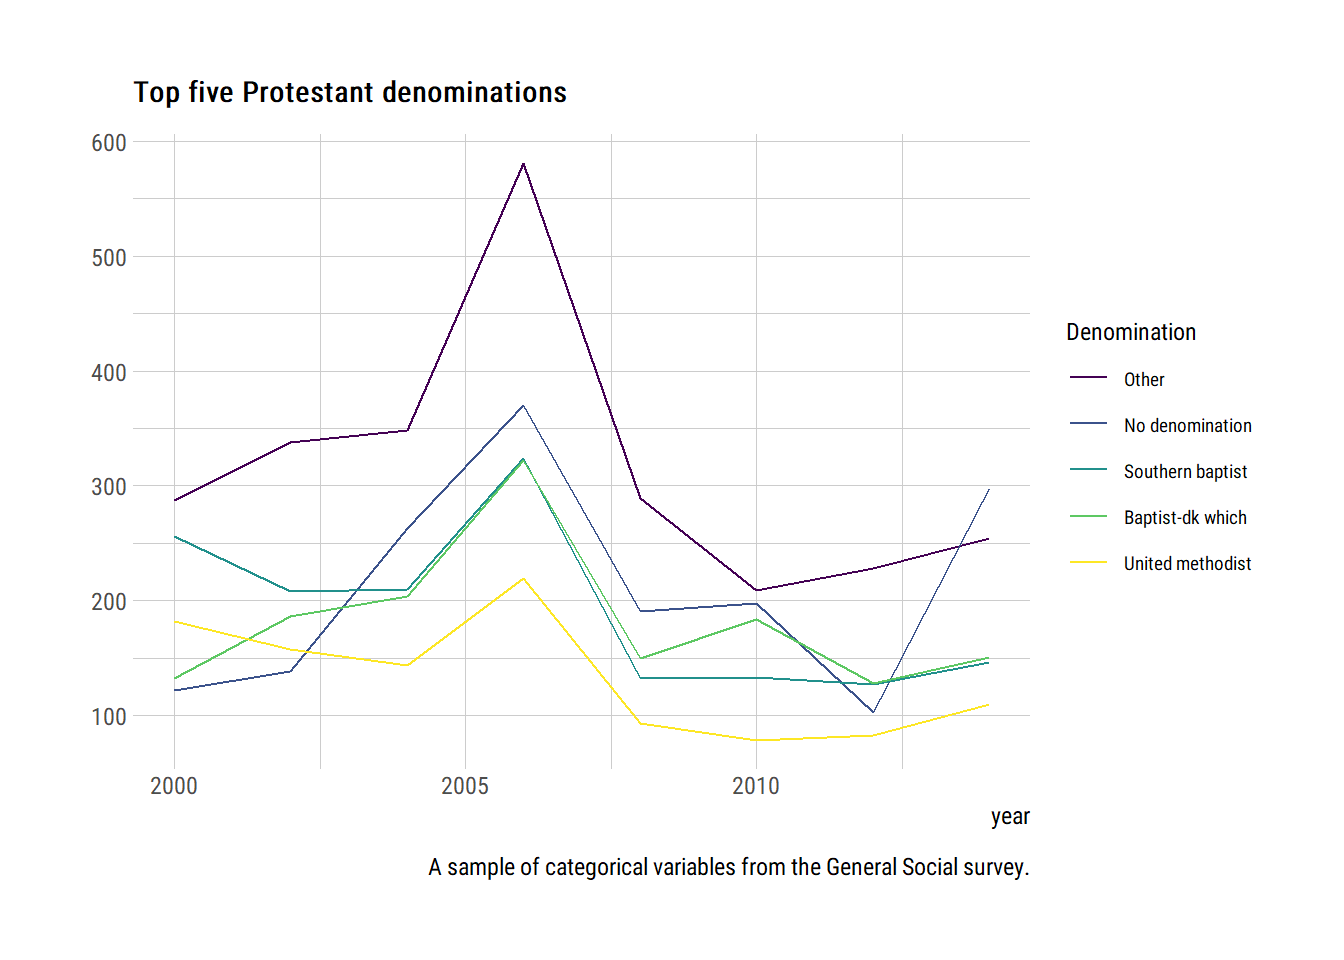
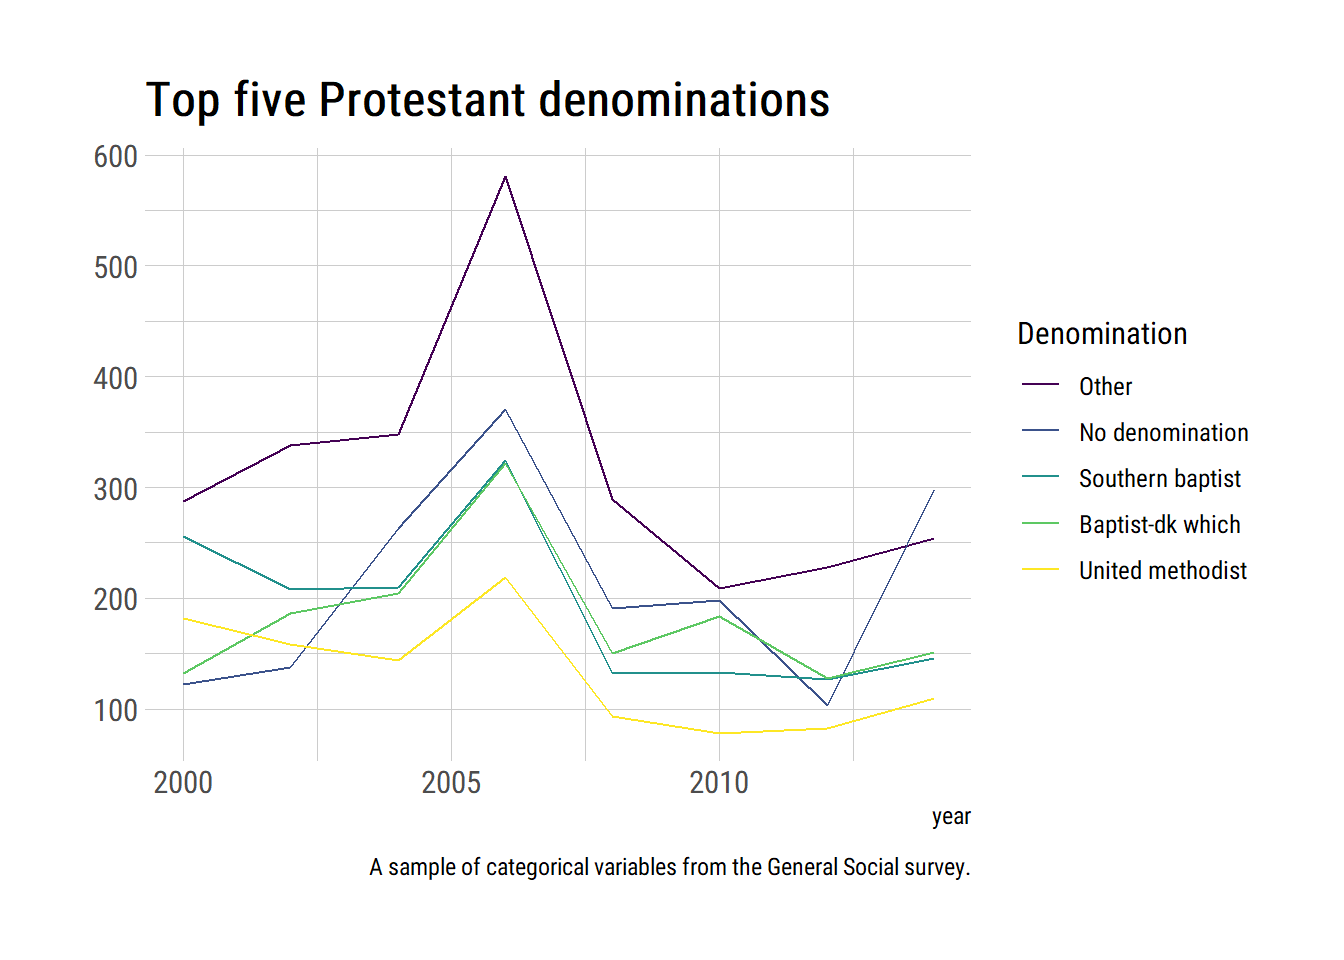
...

diff --git a/public/post/ggplot2-tips-for-categories/index.html b/public/post/ggplot2-tips-for-categories/index.html
@@ -112,7 +112,7 @@ gss %&gt;%
 <h3>Cleaning up</h3>
 <p>The last thing I want to do is add labeling and make it look prettier. I have been using <code>hrbrthemes</code> lately with Roboto Condensed font, and I love it. Below are the settings I usually have in all my markdown docs.</p>
 <pre class="r"><code>library(hrbrthemes)
-theme_set(theme_ipsum_rc(base_size = 9))
+theme_set(theme_ipsum_rc())
 
 gss %&gt;% 
   filter(denom %in% protestant_top) %&gt;% 
@@ -121,7 +121,6 @@ gss %&gt;%
   ggplot(aes(x = year, y = n, color = denom)) +
   geom_line() +
   scale_colour_viridis_d() +
-  theme(plot.title = element_text(size = 11), plot.subtitle = element_text(size = 10), strip.text.x = element_text(size = 9)) + #making the text a little smaller.
   labs(
     title = &quot;Top five Protestant denominations&quot;,
     y = element_blank(),

diff --git a/content/post/2019-02-21-plotting-factors-with-forcats.html b/content/post/2019-02-21-plotting-factors-with-forcats.html
@@ -64,7 +64,7 @@ gss %&gt;%
 <h3>Cleaning up</h3>
 <p>The last thing I want to do is add labeling and make it look prettier. I have been using <code>hrbrthemes</code> lately with Roboto Condensed font, and I love it. Below are the settings I usually have in all my markdown docs.</p>
 <pre class="r"><code>library(hrbrthemes)
-theme_set(theme_ipsum_rc(base_size = 9))
+theme_set(theme_ipsum_rc())
 
 gss %&gt;% 
   filter(denom %in% protestant_top) %&gt;% 
@@ -73,7 +73,6 @@ gss %&gt;%
   ggplot(aes(x = year, y = n, color = denom)) +
   geom_line() +
   scale_colour_viridis_d() +
-  theme(plot.title = element_text(size = 11), plot.subtitle = element_text(size = 10), strip.text.x = element_text(size = 9)) + #making the text a little smaller.
   labs(
     title = &quot;Top five Protestant denominations&quot;,
     y = element_blank(),
